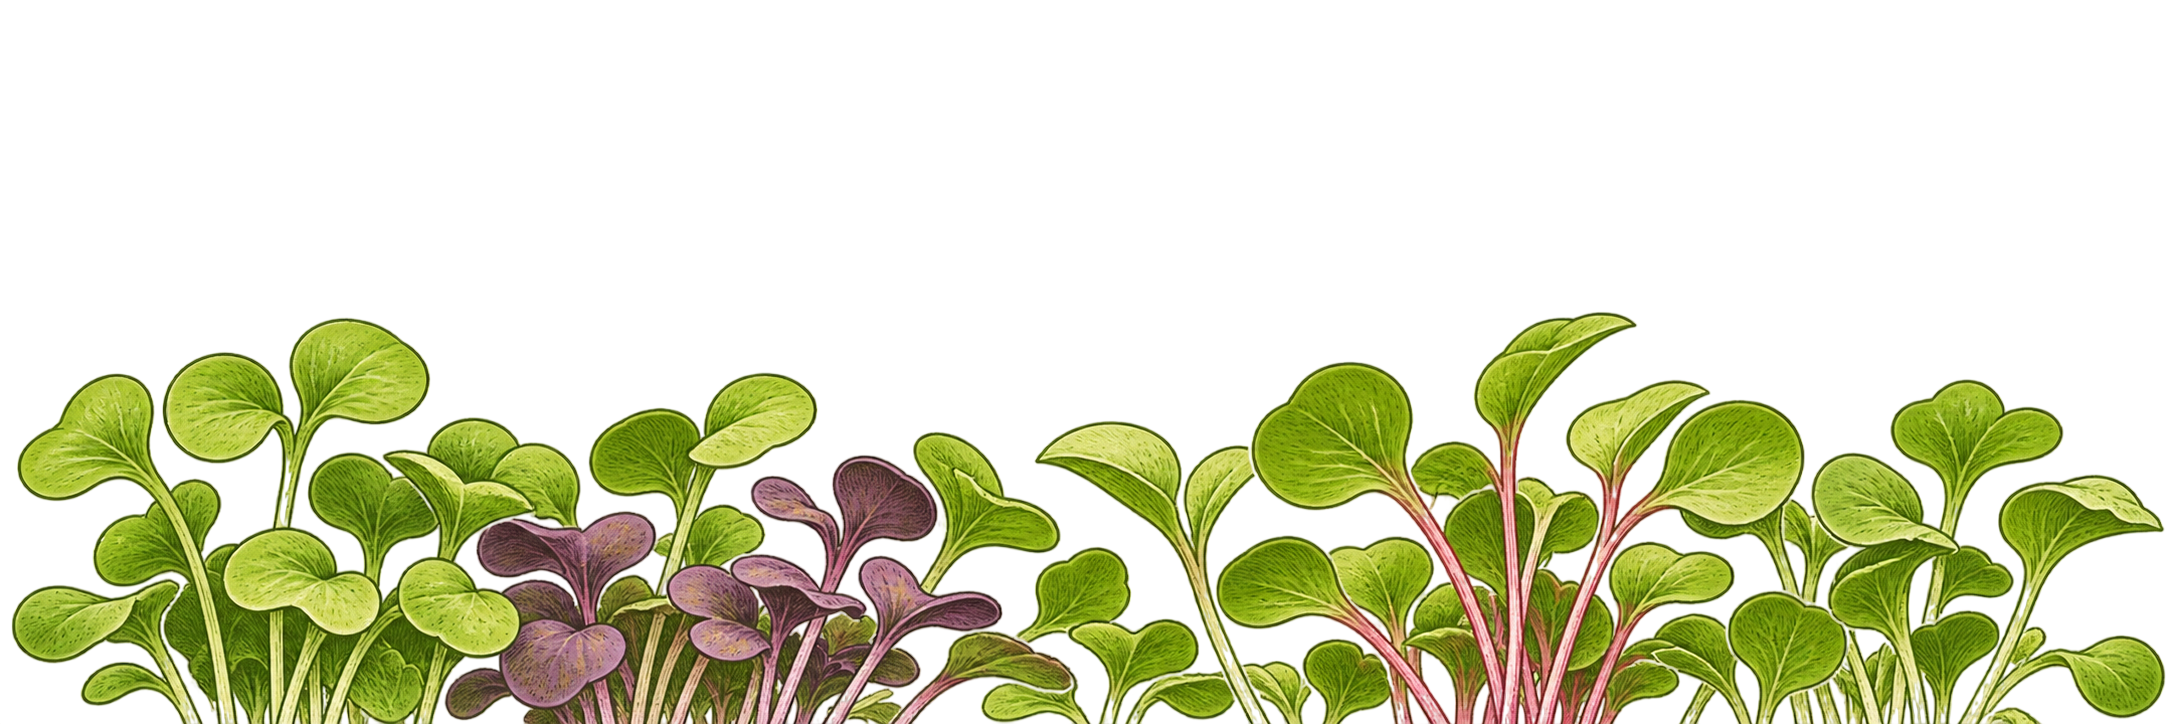
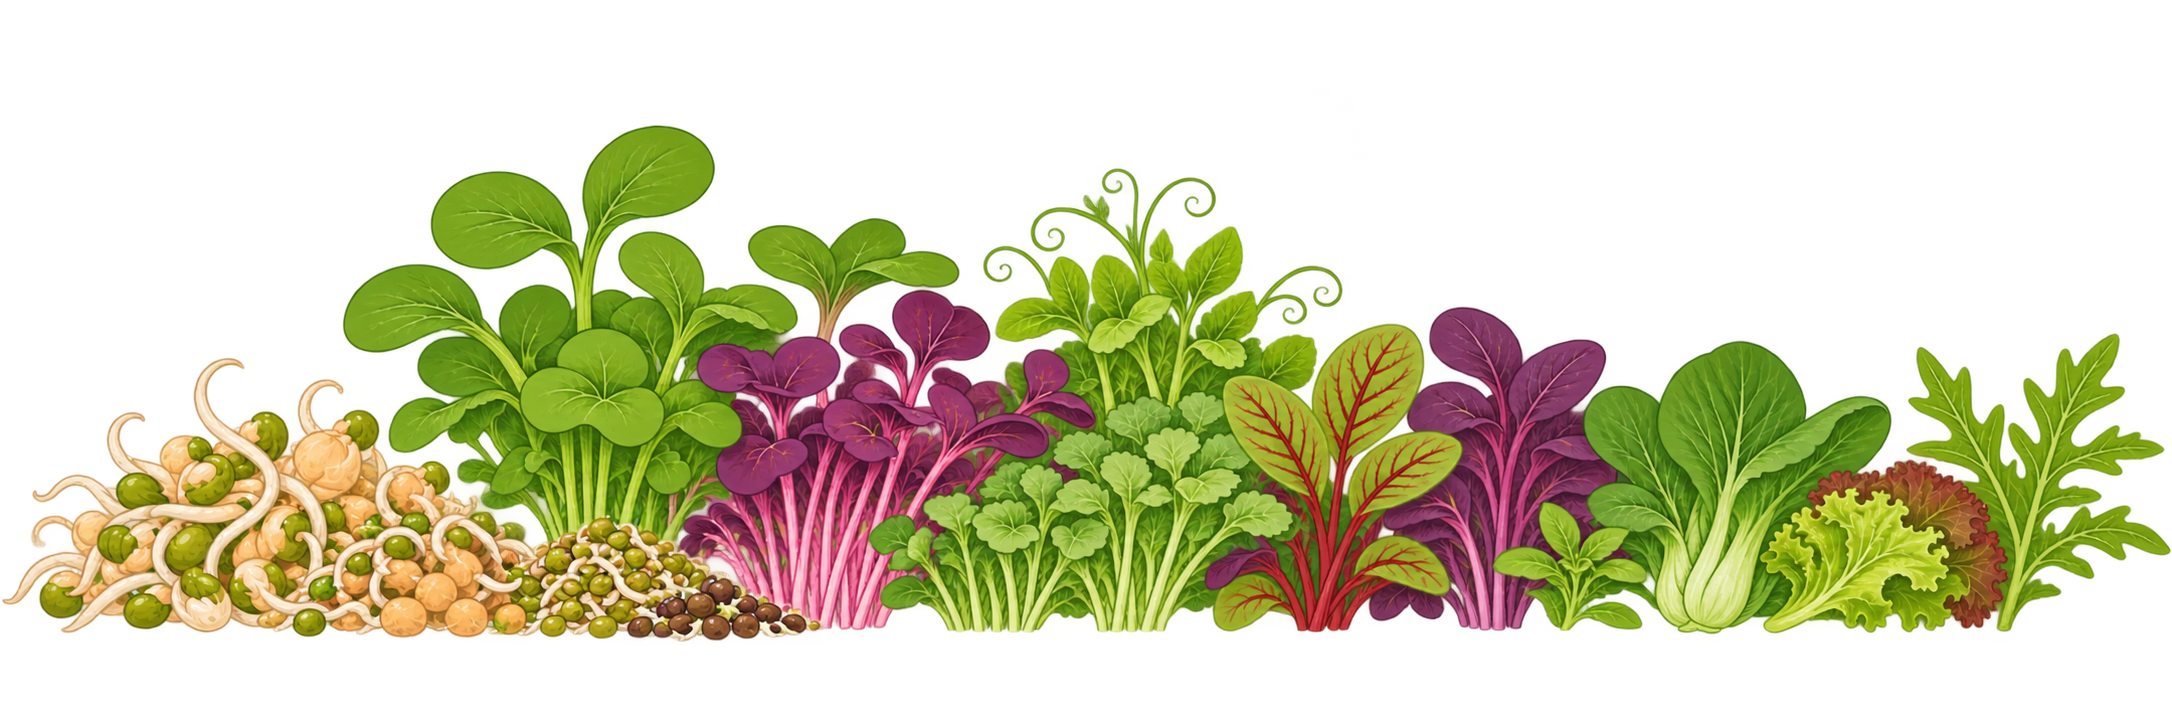
updating foliage and verbiage

diff --git a/src/components/InvoicePaper.tsx b/src/components/InvoicePaper.tsx
@@ -60,7 +60,7 @@ export default function InvoicePaper({ data }: { data: InvoiceState }) {
       </div>
       <div className="paper-totals">
         <div className="paper-grand">
-          <span>{pro ? "Estimated total" : "Amount charged"}</span>
+          <span>{pro ? "Estimated total (Rs.)" : "Amount charged (Rs.)"}</span>
           <strong>{money(total)}</strong>
         </div>
       </div>
